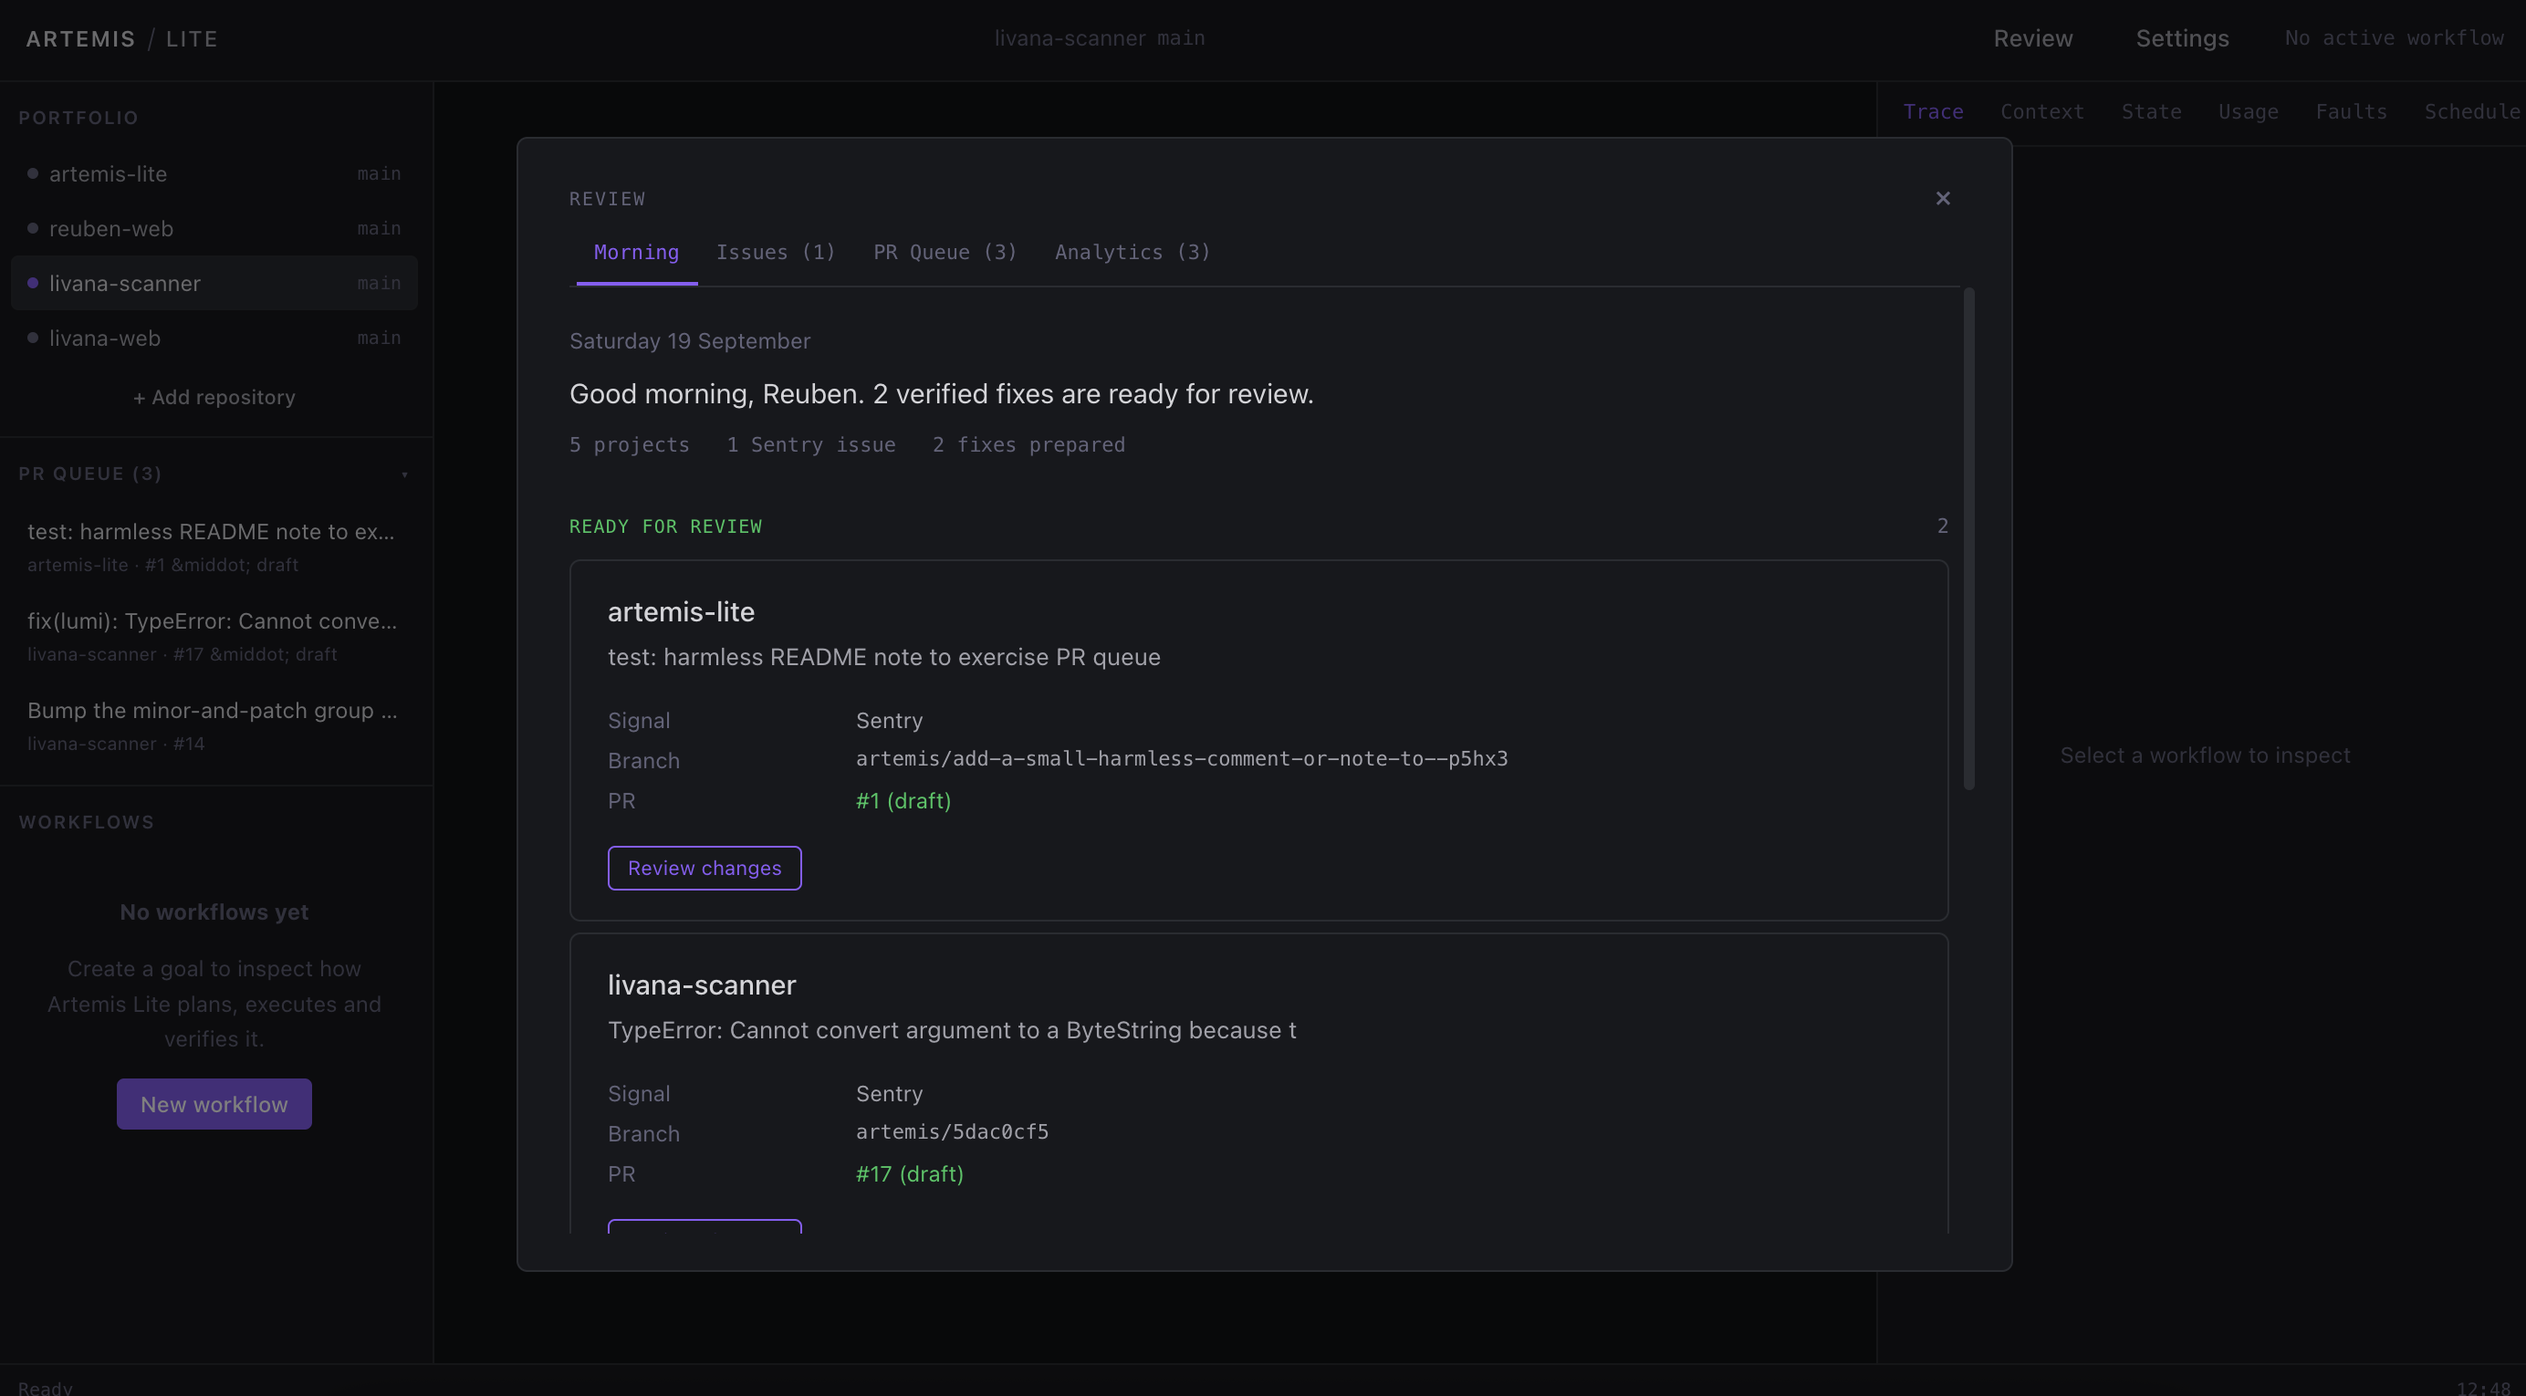
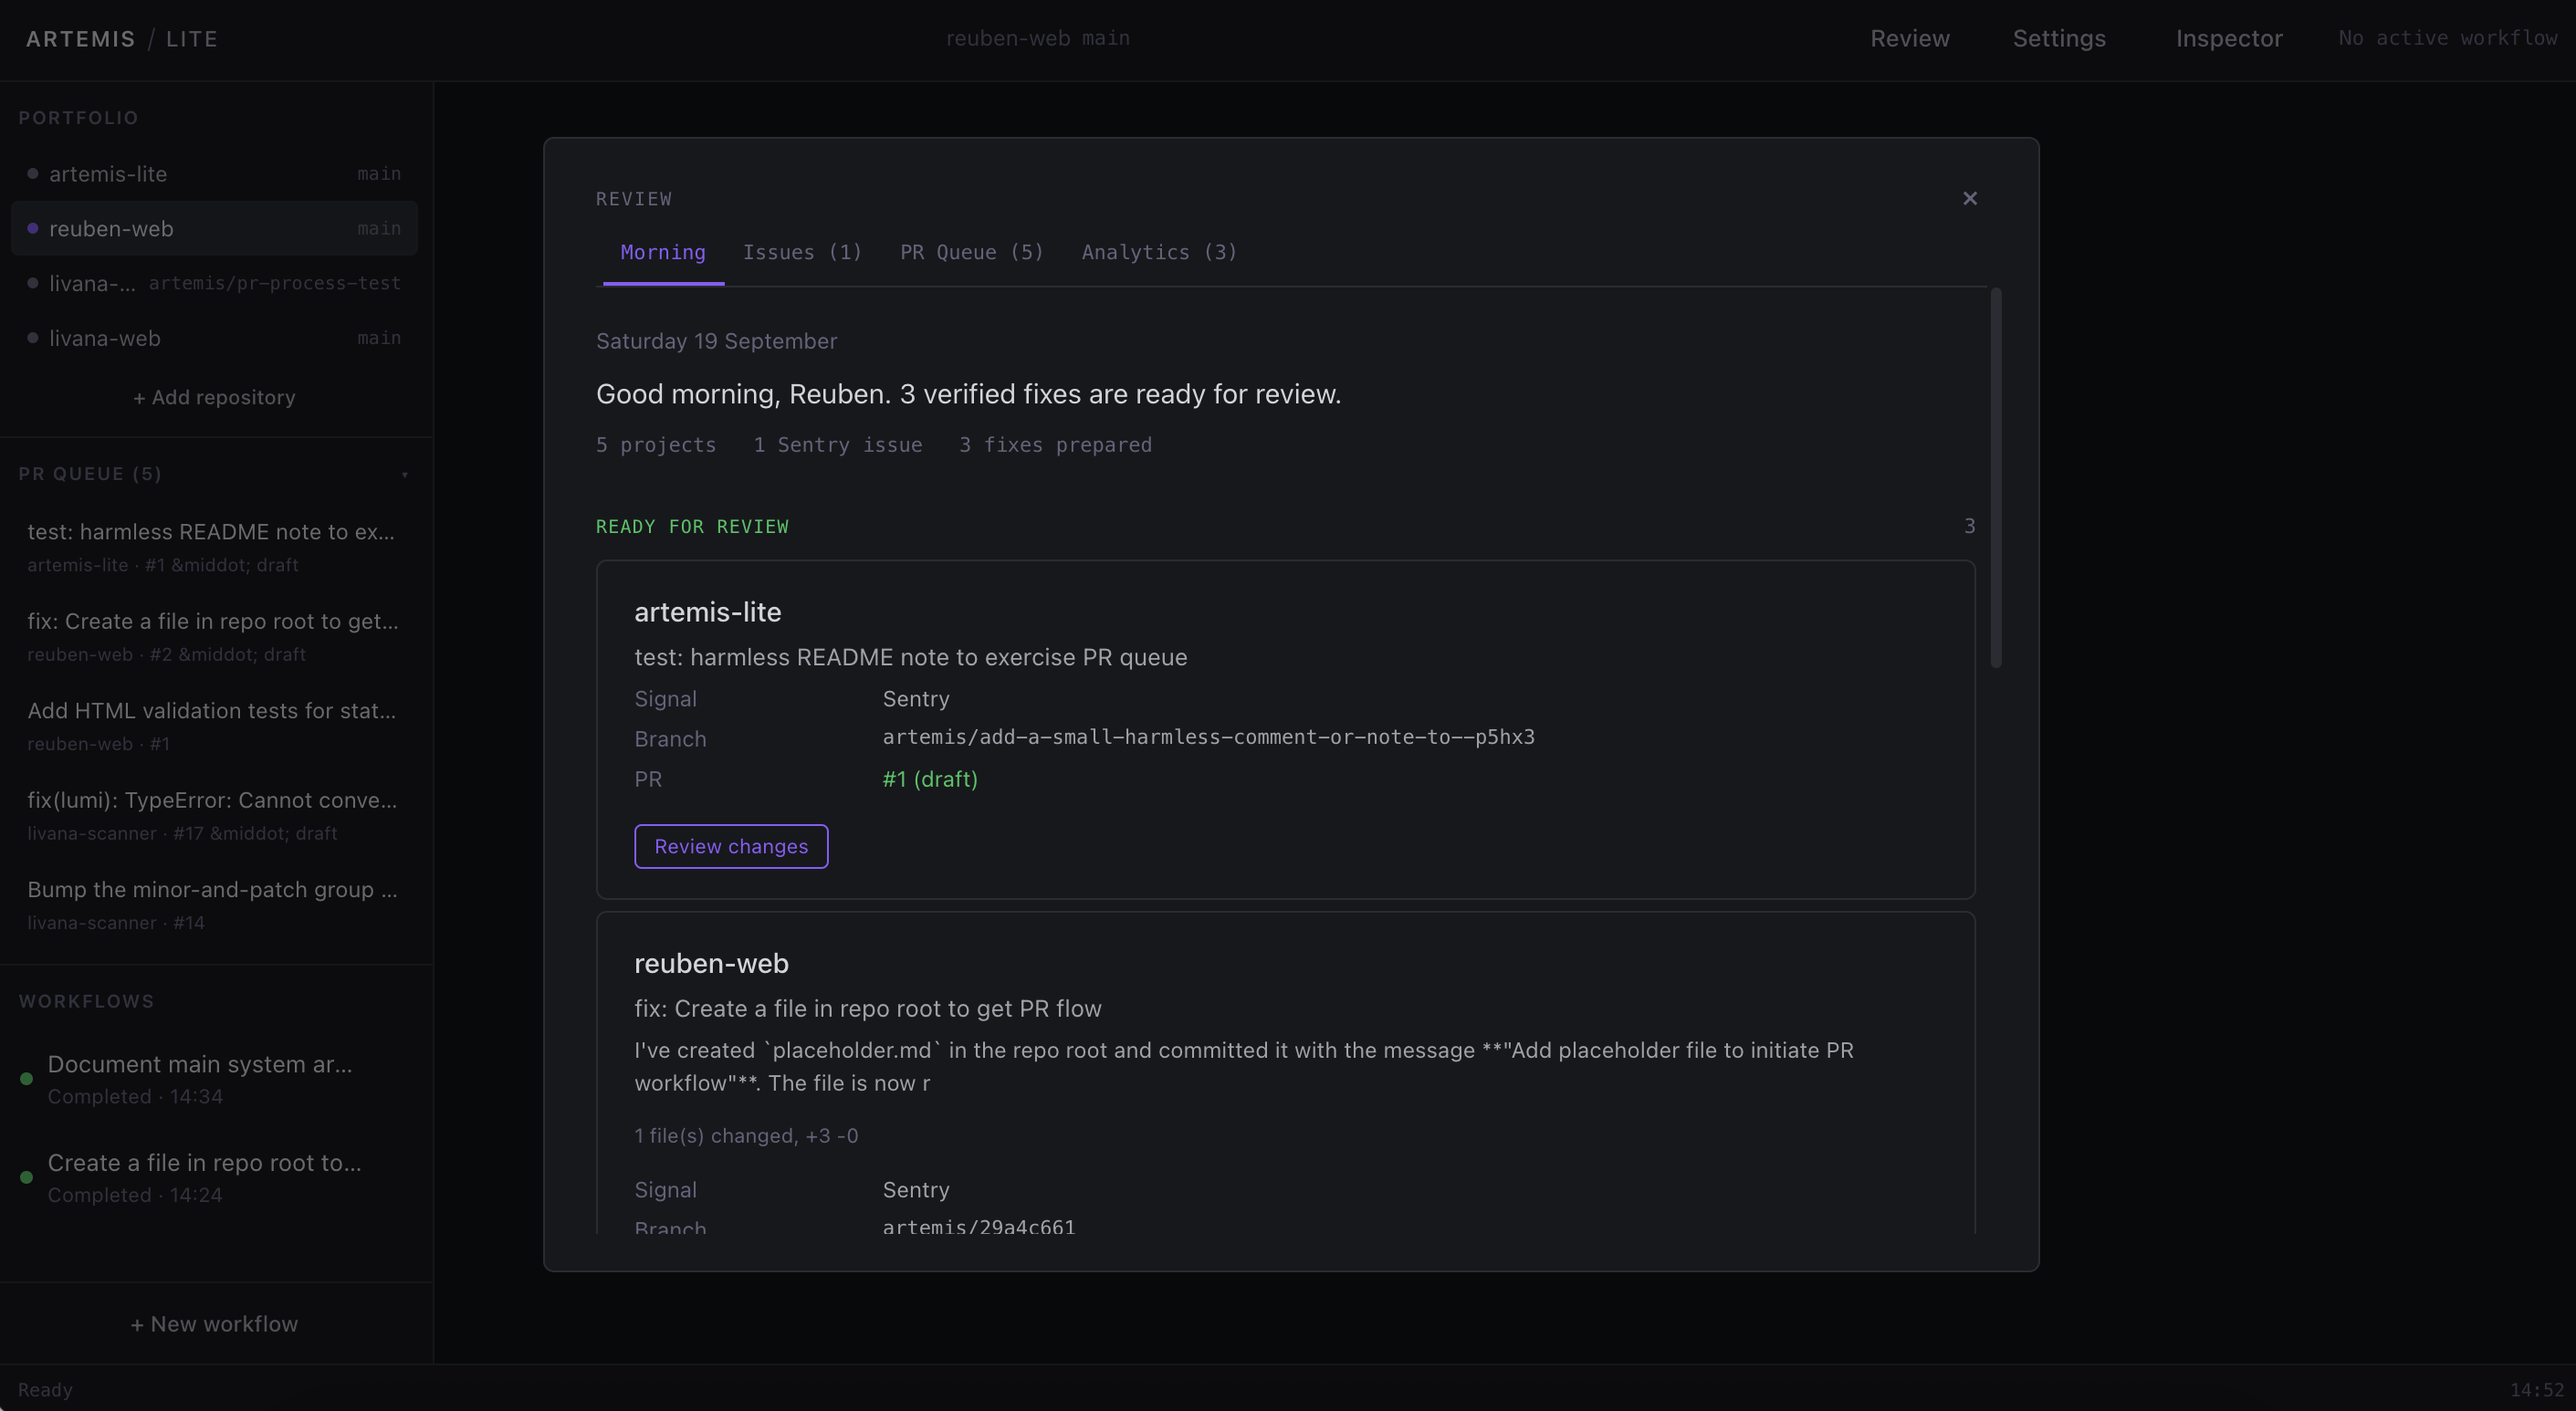
content: update case study - vertical slice is complete, not future
- "Target Workflow" -> "Workflow" (no longer aspirational)
- What Next: vertical slice described as done, next step is unattended
- Updated Morning Review screenshot with richer cards showing findings
- Removed future-tense language for implemented capabilities

diff --git a/work/artemis/index.html b/work/artemis/index.html
@@ -630,7 +630,7 @@
 
       <!-- Target workflow flow -->
       <div style="margin: 56px 0;">
-        <div style="font-family: var(--mono); font-size: 10px; letter-spacing: 0.1em; text-transform: uppercase; color: var(--text-muted); margin-bottom: 20px;">Target Workflow</div>
+        <div style="font-family: var(--mono); font-size: 10px; letter-spacing: 0.1em; text-transform: uppercase; color: var(--text-muted); margin-bottom: 20px;">Workflow</div>
         <div style="display: flex; flex-direction: column; align-items: flex-start; gap: 0; max-width: 400px;">
           <div style="padding: 8px 16px; border: 1px solid var(--border); border-radius: 4px; font-size: 13px; color: var(--text-secondary); width: 100%; display: flex; align-items: center; gap: 10px;">
             <span style="color: var(--text-muted); font-size: 11px;">Sentry / GitHub / Analytics</span>
@@ -1142,13 +1142,13 @@
           Artemis Lite has given me a smaller environment for testing the parts of the original system that became difficult to reason about: workflow state, context, recovery, verification and human control.
         </p>
         <p>
-          Dogfooding it against real production work has also helped clarify where the system boundary should sit. Artemis does not need to reproduce every specialist capability it coordinates.
+          Dogfooding it against real production work clarified where the system boundary should sit. Artemis does not need to reproduce every specialist capability it coordinates. A real Sentry production issue was investigated, a fix was prepared and independently verified, and the draft PR is waiting for review. The vertical slice works.
         </p>
         <p>
-          The next step is a concrete vertical slice: take a real production signal, resolve it to the correct product and repository, delegate repository engineering to a specialised agent, independently verify the result, and leave the consequential action waiting for review.
+          The next step is to make this operate unattended: Artemis should be able to collect production signals, decide which warrant investigation, delegate the work, verify the result, and surface useful outcomes in the Morning Review without manual intervention.
         </p>
         <p>
-          If that works reliably, the interesting next step is to bring those lessons back into the richer product idea that started this project: the original Artemis interface, with the more deliberate system underneath it.
+          After that, the interesting step is to bring these lessons back into the richer product idea that started this project: the original Artemis interface, with the more deliberate system underneath it.
         </p>
         <p>
           Lite is not the destination. It is where I am working out what Artemis 2.0 should actually be.
